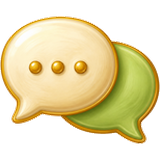
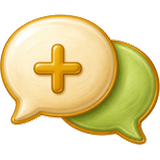
Icona converses del Capità: + en lloc dels tres punts
Claude-Session: https://claude.ai/code/session_01U8Mmhj3w1kDHbZEJg4YuWh

diff --git a/nova/index.html b/nova/index.html
@@ -462,7 +462,7 @@ html,body{-webkit-touch-callout:none;-webkit-user-select:none;user-select:none;-
 
 <script>/* xarxa de seguretat: si l'app no arrenca, botó per actualitzar */setTimeout(function(){var a=document.getElementById("app");if(a&&!a.innerHTML.trim()){a.innerHTML='<div style="padding:40px 20px;text-align:center;font:600 17px system-ui"><p>No s\'ha pogut obrir l\'app.</p><button id="sosup" style="font:700 17px system-ui;padding:12px 22px;border-radius:999px;border:0;background:#17599a;color:#fff">Actualitza</button></div>';document.getElementById("sosup").onclick=function(){(window.caches?caches.keys().then(function(k){return Promise.all(k.map(function(x){return caches.delete(x)}))}):Promise.resolve()).then(function(){location.reload()})};}},2500);</script>
 <script>
-const APPV="1793432788";let UPD=0,UPS=0;
+const APPV="1793433086";let UPD=0,UPS=0;
 
 const IC={"docs": "<svg viewBox=\"0 0 40 40\" width=\"22\" height=\"22\" aria-hidden=\"true\"><path d=\"M9 4h15l8 8v23a2 2 0 0 1-2 2H9a2 2 0 0 1-2-2V6a2 2 0 0 1 2-2z\" fill=\"#fff\" stroke=\"#5b6b7a\" stroke-width=\"1.5\"/><path d=\"M24 4v8h8\" fill=\"#e3e8ee\" stroke=\"#5b6b7a\" stroke-width=\"1.5\" stroke-linejoin=\"round\"/><circle cx=\"27\" cy=\"29\" r=\"8.5\" fill=\"#3f8a3a\" stroke=\"#fff\" stroke-width=\"1.6\"/><path d=\"M27 33.5v-9M23 28l4-4 4 4\" fill=\"none\" stroke=\"#fff\" stroke-width=\"2.2\" stroke-linecap=\"round\" stroke-linejoin=\"round\"/><path d=\"M12 17h10M12 21h7\" stroke=\"#9aa6b2\" stroke-width=\"1.6\" stroke-linecap=\"round\"/></svg>", "receptari": "<svg viewBox=\"0 0 40 40\" width=\"22\" height=\"22\" aria-hidden=\"true\"><path d=\"M6 7c5-2 10-2 14 1v27c-4-3-9-3-14-1z\" fill=\"#fff6e3\" stroke=\"#8a5a2b\" stroke-width=\"1.4\" stroke-linejoin=\"round\"/><path d=\"M34 7c-5-2-10-2-14 1v27c4-3 9-3 14-1z\" fill=\"#fff6e3\" stroke=\"#8a5a2b\" stroke-width=\"1.4\" stroke-linejoin=\"round\"/><path d=\"M4 9v26c6-2 11-2 16 1 5-3 10-3 16-1V9\" fill=\"none\" stroke=\"#c8352b\" stroke-width=\"2.4\" stroke-linejoin=\"round\"/><path d=\"M10 14h6M10 18h6M24 14h6M24 18h5\" stroke=\"#c9a46a\" stroke-width=\"1.5\" stroke-linecap=\"round\"/><path d=\"M27 24c0-2 3-2 3 0 0 2-3 3.5-3 3.5s-3-1.5-3-3.5c0-2 3-2 3 0z\" fill=\"#e0533f\"/></svg>", "menu": "<svg viewBox=\"0 0 40 40\" width=\"22\" height=\"22\" aria-hidden=\"true\"><rect x=\"5\" y=\"7\" width=\"30\" height=\"28\" rx=\"3\" fill=\"#fff\" stroke=\"#2f74b5\" stroke-width=\"1.5\"/><path d=\"M5 10a3 3 0 0 1 3-3h24a3 3 0 0 1 3 3v4H5z\" fill=\"#2f74b5\"/><path d=\"M12 4v6M28 4v6\" stroke=\"#1f4f80\" stroke-width=\"2.2\" stroke-linecap=\"round\"/><circle cx=\"20\" cy=\"25\" r=\"6.5\" fill=\"#f3e3c4\" stroke=\"#c9a46a\" stroke-width=\"1.3\"/><circle cx=\"20\" cy=\"25\" r=\"3.8\" fill=\"#fff\" stroke=\"#e2cfa6\" stroke-width=\"1\"/><path d=\"M10.5 20v10M9 20v3.5a1.5 1.5 0 0 0 3 0V20M29.5 20c1.6 0 1.8 3 1.8 4.6 0 1-.8 1.4-1.8 1.4V30\" fill=\"none\" stroke=\"#8a93a0\" stroke-width=\"1.2\" stroke-linecap=\"round\"/></svg>", "treball": "<svg viewBox=\"0 0 40 40\" width=\"22\" height=\"22\" aria-hidden=\"true\"><rect x=\"8\" y=\"6\" width=\"24\" height=\"30\" rx=\"3\" fill=\"#c98a4b\" stroke=\"#7a4a1e\" stroke-width=\"1.4\"/><rect x=\"11\" y=\"10\" width=\"18\" height=\"23\" rx=\"1.5\" fill=\"#fff\"/><rect x=\"15\" y=\"3.5\" width=\"10\" height=\"5\" rx=\"1.5\" fill=\"#9aa0a6\" stroke=\"#6b7177\" stroke-width=\"1\"/><path d=\"M14 16l2 2 3.5-3.5M14 23l2 2 3.5-3.5\" fill=\"none\" stroke=\"#3f8a3a\" stroke-width=\"1.9\" stroke-linecap=\"round\" stroke-linejoin=\"round\"/><path d=\"M22 17h5M22 24h5M14 29.5h13\" stroke=\"#b9bfc6\" stroke-width=\"1.6\" stroke-linecap=\"round\"/></svg>", "despesa": "<svg viewBox=\"0 0 40 40\" width=\"22\" height=\"22\" aria-hidden=\"true\"><path d=\"M8 4h20v31l-2.5-2-2.5 2-2.5-2-2.5 2-2.5-2-2.5 2-2.5-2L8 35z\" fill=\"#fff\" stroke=\"#7a838b\" stroke-width=\"1.4\" stroke-linejoin=\"round\"/><path d=\"M12 10h12M12 14h9M12 18h12\" stroke=\"#b9bfc6\" stroke-width=\"1.6\" stroke-linecap=\"round\"/><circle cx=\"27\" cy=\"27\" r=\"8\" fill=\"#f2c14a\" stroke=\"#c48a1a\" stroke-width=\"1.5\"/><path d=\"M29.6 23.6a4 4 0 1 0 0 6.8M22.8 25.8h5.4M22.8 28.2h5.4\" fill=\"none\" stroke=\"#8a5a10\" stroke-width=\"1.6\" stroke-linecap=\"round\"/></svg>", "hudsilo": "<svg aria-hidden=\"true\" width=\"30\" height=\"30\" viewBox=\"0 0 64 64\"><defs><linearGradient id=\"hsr\" x1=\"0\" x2=\"1\"><stop offset=\"0\" stop-color=\"#8f1a12\"/><stop offset=\".28\" stop-color=\"#d8392a\"/><stop offset=\".55\" stop-color=\"#e9503d\"/><stop offset=\"1\" stop-color=\"#9e2016\"/></linearGradient><linearGradient id=\"hsroof\" x1=\"0\" x2=\"1\"><stop offset=\"0\" stop-color=\"#3f3029\"/><stop offset=\".45\" stop-color=\"#7b6556\"/><stop offset=\"1\" stop-color=\"#4a3a31\"/></linearGradient><linearGradient id=\"hsgr\" x1=\"0\" y1=\"0\" x2=\"0\" y2=\"1\"><stop offset=\"0\" stop-color=\"#f7d36a\"/><stop offset=\".25\" stop-color=\"#e3a43a\"/><stop offset=\"1\" stop-color=\"#b8711e\"/></linearGradient><linearGradient id=\"hsmet\" x1=\"0\" x2=\"1\"><stop offset=\"0\" stop-color=\"#5d666e\"/><stop offset=\".5\" stop-color=\"#b9c2ca\"/><stop offset=\"1\" stop-color=\"#626b73\"/></linearGradient><linearGradient id=\"hsst\" x1=\"0\" y1=\"0\" x2=\"0\" y2=\"1\"><stop offset=\"0\" stop-color=\"#e4d8c6\"/><stop offset=\"1\" stop-color=\"#a99880\"/></linearGradient></defs><ellipse cx=\"32\" cy=\"58.5\" rx=\"17\" ry=\"4.2\" fill=\"url(#hsst)\" stroke=\"#7d6c56\" stroke-width=\"1.2\"/><path d=\"M17 17h30l-2.6 40.6c-6.2 2.2-18.6 2.2-24.8 0z\" fill=\"url(#hsr)\" stroke=\"#5f130c\" stroke-width=\"1.5\" stroke-linejoin=\"round\"/><path d=\"M22.4 18.5l1 40M27.6 18.6l.4 40.6M32.8 18.6v40.8M38 18.6l-.4 40.6M43.2 18.5l-1 40\" stroke=\"#7d160e\" stroke-width=\"1\" opacity=\".75\"/><path d=\"M20.2 18.8l1.6 38.4\" stroke=\"#f47b66\" stroke-width=\"1.6\" opacity=\".7\"/><path d=\"M17.3 27.5c8.6 2.8 20.8 2.8 29.4 0M18.3 44c8 2.6 19.4 2.6 27.4 0\" fill=\"none\" stroke=\"#5f130c\" stroke-width=\"3.4\" opacity=\".35\"/><path d=\"M17.3 27c8.6 2.8 20.8 2.8 29.4 0M18.3 43.5c8 2.6 19.4 2.6 27.4 0\" fill=\"none\" stroke=\"#fbf6ee\" stroke-width=\"2.4\"/><path d=\"M28.4 21.5h7.2l-1.2 33h-4.8z\" fill=\"#fbf6ee\" stroke=\"#6b1a10\" stroke-width=\"1\"/><path d=\"M29.9 23.2h4.2l-1 29.6h-2.2z\" fill=\"#5d120b\"/><path d=\"M30.4 36.5h3.4l-.7 16.3h-2.2z\" fill=\"url(#hsgr)\"/><path d=\"M30.2 37c.3-4.4 3.5-4.4 3.8 0z\" fill=\"#f7d36a\" stroke=\"#c48a26\" stroke-width=\".5\"/><circle cx=\"31.4\" cy=\"34.8\" r=\".5\" fill=\"#fff3c4\"/><circle cx=\"32.8\" cy=\"35.6\" r=\".4\" fill=\"#fff3c4\"/><path d=\"M19.5 41l-2.6.6.4 14.8M44.5 41l2.6.6-.4 14.8\" fill=\"none\" stroke=\"url(#hsmet)\" stroke-width=\"2.4\" stroke-linecap=\"round\" stroke-linejoin=\"round\"/><rect x=\"15.6\" y=\"55.3\" width=\"3.4\" height=\"2\" rx=\".6\" fill=\"#7d868f\" stroke=\"#3f464c\" stroke-width=\".6\"/><rect x=\"45\" y=\"55.3\" width=\"3.4\" height=\"2\" rx=\".6\" fill=\"#7d868f\" stroke=\"#3f464c\" stroke-width=\".6\"/><path d=\"M46 21.4h4.4v3.4\" fill=\"none\" stroke=\"url(#hsmet)\" stroke-width=\"2.2\" stroke-linecap=\"round\"/><path d=\"M50.4 24.8c1.4 4 .6 8 -1 10\" fill=\"none\" stroke=\"#a87c4f\" stroke-width=\".9\"/><path d=\"M32 3.5 14.2 17.4c5 2.4 30.6 2.4 35.6 0z\" fill=\"url(#hsroof)\" stroke=\"#2a201b\" stroke-width=\"1.5\" stroke-linejoin=\"round\"/><path d=\"M32 4.4l-7.6 13.8M32 4.4l7.2 13.8\" stroke=\"#8d7766\" stroke-width=\".8\" opacity=\".6\"/><path d=\"M21.6 11l6.2-2.2 2.4 4.2-6.4 2.2z\" fill=\"#d3d9de\" stroke=\"#5f676e\" stroke-width=\"1\"/><path d=\"M24.4 11.6l2.4-.8\" stroke=\"#5f676e\" stroke-width=\"1\" stroke-linecap=\"round\"/></svg>", "shopico": "<svg aria-hidden=\"true\" width=\"34\" height=\"34\" viewBox=\"0 0 64 64\"><defs><linearGradient id=\"bw\" x1=\"0\" x2=\"0\" y1=\"0\" y2=\"1\"><stop offset=\"0\" stop-color=\"#9c5f30\"/><stop offset=\"1\" stop-color=\"#6a3b19\"/></linearGradient><linearGradient id=\"bp\" x1=\"0\" x2=\"1\"><stop offset=\"0\" stop-color=\"#6f4120\"/><stop offset=\".5\" stop-color=\"#a86a35\"/><stop offset=\"1\" stop-color=\"#6f4120\"/></linearGradient><linearGradient id=\"bc\" x1=\"0\" x2=\"0\" y1=\"0\" y2=\"1\"><stop offset=\"0\" stop-color=\"#e4b47a\"/><stop offset=\"1\" stop-color=\"#b9824a\"/></linearGradient><linearGradient id=\"bcin\" x1=\"0\" x2=\"0\" y1=\"0\" y2=\"1\"><stop offset=\"0\" stop-color=\"#7a4a24\"/><stop offset=\"1\" stop-color=\"#a86e3c\"/></linearGradient><linearGradient id=\"awr\" x1=\"0\" x2=\"0\" y1=\"0\" y2=\"1\"><stop offset=\"0\" stop-color=\"#f05a48\"/><stop offset=\"1\" stop-color=\"#c62a20\"/></linearGradient><linearGradient id=\"aww\" x1=\"0\" x2=\"0\" y1=\"0\" y2=\"1\"><stop offset=\"0\" stop-color=\"#ffffff\"/><stop offset=\"1\" stop-color=\"#e9ddd0\"/></linearGradient><radialGradient id=\"ar\" cx=\".35\" cy=\".35\" r=\".7\"><stop offset=\"0\" stop-color=\"#ff8a7a\"/><stop offset=\".5\" stop-color=\"#e3261c\"/><stop offset=\"1\" stop-color=\"#9c120c\"/></radialGradient><radialGradient id=\"ag\" cx=\".35\" cy=\".35\" r=\".7\"><stop offset=\"0\" stop-color=\"#d9ff9a\"/><stop offset=\".5\" stop-color=\"#6cc43a\"/><stop offset=\"1\" stop-color=\"#2f7a1a\"/></radialGradient><linearGradient id=\"bk\" x1=\"0\" x2=\"1\"><stop offset=\"0\" stop-color=\"#7a4a24\"/><stop offset=\".5\" stop-color=\"#c0814a\"/><stop offset=\"1\" stop-color=\"#7a4a24\"/></linearGradient></defs><path d=\"M4 50l10-5h40l4 6-10 7H8z\" fill=\"url(#bw)\" stroke=\"#3f230e\" stroke-width=\"1.3\" stroke-linejoin=\"round\"/><path d=\"M12 47l-3 9M20 46l-3 11M28 46l-2 12M36 46l-1 12M44 46l1 12M52 47l2 9\" stroke=\"#4a2a12\" stroke-width=\".9\" opacity=\".7\"/><rect x=\"49\" y=\"12\" width=\"3.6\" height=\"40\" rx=\"1\" fill=\"url(#bp)\" stroke=\"#3f230e\" stroke-width=\"1.1\"/><rect x=\"13.2\" y=\"18\" width=\"3.4\" height=\"28\" rx=\"1\" fill=\"url(#bp)\" stroke=\"#3f230e\" stroke-width=\"1.1\"/><path d=\"M16 40h32v9H17z\" fill=\"#a8622e\" stroke=\"#4a2a12\" stroke-width=\"1.1\"/><path d=\"M17 44.5h31\" stroke=\"#7a431c\" stroke-width=\".9\"/><path d=\"M13 37.5l34-5 4 7.6-35 5.4z\" fill=\"#f1dfbd\" stroke=\"#6b3f17\" stroke-width=\"1.1\" stroke-linejoin=\"round\"/><path d=\"M15 36.5l31.6-4.8 3 6-32 4.9z\" fill=\"url(#bc)\" stroke=\"#5e3614\" stroke-width=\"1.1\" stroke-linejoin=\"round\"/><path d=\"M18.4 37.6l9-1.4 1 2.6-9 1.4zM29.4 35.9l9-1.4 1 2.6-9 1.4zM40.2 34.3l6-.9 1.1 2.6-6.1.9zM19.6 39.9l9-1.4.9 1.4-9 1.4zM30.6 38.2l9-1.4.9 1.4-9 1.4z\" fill=\"url(#bcin)\"/><path d=\"M27.4 36.2l2.1 4.3M38.4 34.5l2 4.3\" stroke=\"#5e3614\" stroke-width=\"1.2\"/><path d=\"M8.5 15.5C14 9 38 5.5 54 9.5l1.6 5\" fill=\"none\" stroke=\"#7a1e14\" stroke-width=\"1.4\"/><path d=\"M8.5 15.5 10 24.5c2.4 2 5.2 1.6 6.4-.6 2.2 2.1 5 1.8 6.3-.5 2.2 2 5 1.7 6.2-.6 2.2 2 5 1.6 6.2-.6 2.2 1.9 5 1.6 6.1-.7 2.2 1.9 4.9 1.5 6-.8 2.1 1.7 4.7 1.3 5.6-1L54 9.5C38 5.5 14 9 8.5 15.5z\" fill=\"url(#aww)\" stroke=\"#7a1e14\" stroke-width=\"1.4\" stroke-linejoin=\"round\"/><path d=\"M10 24.5c2.4 2 5.2 1.6 6.4-.6l-1.4-11.6-6.5 3.2zM22.7 23.4c2.2 2 5 1.7 6.2-.6l-1.2-13-6.7 1.4zM35.1 22.2c2.2 1.9 5 1.6 6.1-.7l-.6-13.1-6.6.4zM47.2 20.7c2.1 1.7 4.7 1.3 5.6-1L54 9.5l-6.4-1.1z\" fill=\"url(#awr)\"/><path d=\"M10.5 16.4c8-4.2 28-6 42.4-3.4\" fill=\"none\" stroke=\"#fff\" stroke-width=\"1\" opacity=\".55\"/><circle cx=\"31\" cy=\"7.3\" r=\"1.3\" fill=\"#a9b2ba\" stroke=\"#5f676e\" stroke-width=\".6\"/><circle cx=\"53.6\" cy=\"9.6\" r=\"1.3\" fill=\"#a9b2ba\" stroke=\"#5f676e\" stroke-width=\".6\"/><path d=\"M2.5 48.5h12l-1.4 9.5H4z\" fill=\"url(#bk)\" stroke=\"#4a2a12\" stroke-width=\"1.1\"/><path d=\"M3.2 52.3h10.6\" stroke=\"#9aa3ab\" stroke-width=\"1.6\"/><circle cx=\"5.6\" cy=\"47.2\" r=\"2.6\" fill=\"url(#ag)\"/><circle cx=\"9.4\" cy=\"46.4\" r=\"2.7\" fill=\"url(#ag)\"/><circle cx=\"12.3\" cy=\"47.6\" r=\"2.3\" fill=\"url(#ag)\"/><path d=\"M47 51.5h12l-1.4 9.5h-9.2z\" fill=\"url(#bk)\" stroke=\"#4a2a12\" stroke-width=\"1.1\"/><path d=\"M47.7 55.3h10.6\" stroke=\"#9aa3ab\" stroke-width=\"1.6\"/><circle cx=\"50.2\" cy=\"50.2\" r=\"2.6\" fill=\"url(#ar)\"/><circle cx=\"54\" cy=\"49.4\" r=\"2.7\" fill=\"url(#ar)\"/><circle cx=\"56.8\" cy=\"50.6\" r=\"2.3\" fill=\"url(#ar)\"/><path d=\"M54 46.8l.4-1.4\" stroke=\"#4a2a12\" stroke-width=\".8\"/></svg>", "veiico": "<svg aria-hidden=\"true\" width=\"32\" height=\"32\" viewBox=\"0 0 64 64\"><path d=\"M2 47c10-5 21-6 30-4s20 3 30-2v19H2z\" fill=\"#7fb944\"/><g stroke=\"#6b4423\" stroke-width=\"1.8\" stroke-linejoin=\"round\"><rect x=\"5\" y=\"32\" width=\"15\" height=\"14\" rx=\"1\" fill=\"#fbf1dc\"/><path d=\"M3 33.5 12.5 22 22 33.5z\" fill=\"#d1453b\"/><rect x=\"44\" y=\"32\" width=\"15\" height=\"14\" rx=\"1\" fill=\"#fbf1dc\"/><path d=\"M42 33.5 51.5 22 61 33.5z\" fill=\"#eaa63a\"/><rect x=\"38\" y=\"15\" width=\"4.5\" height=\"9\" fill=\"#a8562c\"/><rect x=\"19\" y=\"28\" width=\"26\" height=\"21\" rx=\"1.2\" fill=\"#fffaf0\"/><path d=\"M16 30 32 14l16 16z\" fill=\"#6e8c3c\"/><rect x=\"28.5\" y=\"38\" width=\"7\" height=\"11\" rx=\"1\" fill=\"#9a5a2b\"/></g><rect x=\"22.5\" y=\"32\" width=\"4.5\" height=\"4\" fill=\"#8cc7ec\"/><rect x=\"37\" y=\"32\" width=\"4.5\" height=\"4\" fill=\"#8cc7ec\"/></svg>", "crea": "<svg viewBox=\"0 0 40 40\" width=\"22\" height=\"22\" aria-hidden=\"true\"><path d=\"M8 4h15l7 7v24a2 2 0 0 1-2 2H8a2 2 0 0 1-2-2V6a2 2 0 0 1 2-2z\" fill=\"#fff\" stroke=\"#5b6b7a\" stroke-width=\"1.5\"/><path d=\"M23 4v7h7\" fill=\"#e3e8ee\" stroke=\"#5b6b7a\" stroke-width=\"1.5\" stroke-linejoin=\"round\"/><path d=\"M11 15h11M11 19h12M11 23h7\" stroke=\"#9aa6b2\" stroke-width=\"1.6\" stroke-linecap=\"round\"/><path d=\"M20 30 31 19l4 4-11 11z\" fill=\"#eaa63a\" stroke=\"#8a5a2b\" stroke-width=\"1.3\" stroke-linejoin=\"round\"/><path d=\"M31 19l1.6-1.6a1.4 1.4 0 0 1 2 0l2 2a1.4 1.4 0 0 1 0 2L35 23z\" fill=\"#e0533f\" stroke=\"#8a5a2b\" stroke-width=\"1.3\" stroke-linejoin=\"round\"/><path d=\"M20 30l4 4-6 2z\" fill=\"#f3e3c4\" stroke=\"#8a5a2b\" stroke-width=\"1.3\" stroke-linejoin=\"round\"/><path d=\"M18.6 34.4 18 36l1.6-.6z\" fill=\"#3d3d3d\"/></svg>", "qc": "<svg viewBox=\"0 0 40 40\" width=\"22\" height=\"22\" aria-hidden=\"true\"><path d=\"M15.5 19 20.3 7.2l3.3 1.3-3.4 10.8z\" fill=\"#eaa63a\" stroke=\"#a8562c\" stroke-width=\"1.3\" stroke-linejoin=\"round\"/><path d=\"M18 13.5l2 .8M17 16l1.8.7\" stroke=\"#a8562c\" stroke-width=\"1\" stroke-linecap=\"round\"/><path d=\"M21.5 7.6c-.9-2.6.2-4.3 1.6-4.9.6 1.8.4 3.6-.9 5.2zM22.3 8c1.6-2 3.6-2.2 5-1.4-1.3 1.3-3 1.9-5 1.4z\" fill=\"#7fb944\" stroke=\"#4f7a2a\" stroke-width=\"1\" stroke-linejoin=\"round\"/><path d=\"M25.5 19c-.3-4.2 1.9-7.2 5.6-8.4-.1 3.8-2 6.8-5.6 8.4z\" fill=\"#7fb944\" stroke=\"#4f7a2a\" stroke-width=\"1.2\" stroke-linejoin=\"round\"/><path d=\"M7 20h26v8a7 7 0 0 1-7 7H14a7 7 0 0 1-7-7z\" fill=\"#d8392a\" stroke=\"#8f1a12\" stroke-width=\"1.5\" stroke-linejoin=\"round\"/><path d=\"M4.5 19.5h31\" stroke=\"#8f1a12\" stroke-width=\"2.6\" stroke-linecap=\"round\"/><path d=\"M7 23.5H3.5M33 23.5h3.5\" stroke=\"#8f1a12\" stroke-width=\"2.4\" stroke-linecap=\"round\"/><path d=\"M11 24v4.5\" stroke=\"#f08a7a\" stroke-width=\"1.8\" stroke-linecap=\"round\"/></svg>", "casa": "<svg viewBox=\"0 0 40 40\" width=\"22\" height=\"22\" aria-hidden=\"true\"><ellipse cx=\"20\" cy=\"37.2\" rx=\"14\" ry=\"1.6\" fill=\"#000\" opacity=\".13\"/><path d=\"M7 19 20 7l13 12v17H7z\" fill=\"#f3e3c4\" stroke=\"#7a4a1e\" stroke-width=\"1.3\" stroke-linejoin=\"round\"/><path d=\"M4 20.5 20 5.5l16 15\" fill=\"none\" stroke=\"#c8352b\" stroke-width=\"3.4\" stroke-linecap=\"round\" stroke-linejoin=\"round\"/><rect x=\"26\" y=\"8\" width=\"4\" height=\"7\" fill=\"#9b5a2b\"/><rect x=\"16.5\" y=\"25\" width=\"7\" height=\"11\" rx=\"1\" fill=\"#9b5a2b\"/><path d=\"M14 21.5a3 3 0 0 1 6 0c0 2.6-3 4.4-3 4.4s-3-1.8-3-4.4zM20 21.5a3 3 0 0 1 6 0c0 2.6-3 4.4-3 4.4\" fill=\"none\"/><path d=\"M17.2 18.6c-1.6-1.6-4.2-.2-3.6 2 .5 1.8 3.6 3.6 3.6 3.6s3.1-1.8 3.6-3.6c.6-2.2-2-3.6-3.6-2z\" fill=\"#e0533f\" transform=\"translate(2.8 -1.2)\"/></svg>", "graner": "<svg viewBox=\"0 0 40 40\" width=\"22\" height=\"22\" aria-hidden=\"true\"><ellipse cx=\"20\" cy=\"37.2\" rx=\"15\" ry=\"1.6\" fill=\"#000\" opacity=\".13\"/><path d=\"M6 17.5 9.5 9.5 20 4.5 30.5 9.5 34 17.5V36H6z\" fill=\"#c8352b\" stroke=\"#7d1d17\" stroke-width=\"1.1\" stroke-linejoin=\"round\"/><path d=\"M3.5 18.5 8.4 8.2 20 2.8 31.6 8.2 36.5 18.5\" fill=\"none\" stroke=\"#2f3236\" stroke-width=\"3.2\" stroke-linecap=\"round\" stroke-linejoin=\"round\"/><path d=\"M9 21h22\" stroke=\"#fff\" stroke-width=\"1.6\"/><path d=\"M10 12.4 9.6 13\" stroke=\"#a52a22\" stroke-width=\".8\"/><path d=\"M12 24v12M28 24v12\" stroke=\"#a52a22\" stroke-width=\".8\" opacity=\".7\"/><rect x=\"16.5\" y=\"9.8\" width=\"7\" height=\"6.4\" fill=\"#fff\" stroke=\"#7d1d17\" stroke-width=\".6\"/><path d=\"M16.5 9.8 23.5 16.2M23.5 9.8 16.5 16.2\" stroke=\"#c8352b\" stroke-width=\"1.1\"/><rect x=\"13.5\" y=\"23.5\" width=\"13\" height=\"12.5\" fill=\"#fff\"/><rect x=\"15\" y=\"25\" width=\"10\" height=\"11\" fill=\"#8e2219\"/><path d=\"M15 25 25 36M25 25 15 36\" stroke=\"#fff\" stroke-width=\"1.3\"/><path d=\"M20 25v11\" stroke=\"#fff\" stroke-width=\"1\"/><rect x=\"5.5\" y=\"35.5\" width=\"29\" height=\"1.6\" rx=\".8\" fill=\"#9aa0a6\"/></svg>", "cart": "<svg viewBox=\"0 0 40 40\" width=\"28\" height=\"28\" aria-hidden=\"true\"><path d=\"M3 7h5l4 20h20\" fill=\"none\" stroke=\"#1f4f80\" stroke-width=\"2.4\" stroke-linecap=\"round\" stroke-linejoin=\"round\"/><path d=\"M9.5 12h26l-3 12H12z\" fill=\"#fff\" stroke=\"#2f74b5\" stroke-width=\"1.6\" stroke-linejoin=\"round\"/><path d=\"M15 12.5 18 5.5l3 1.2-2.4 5.8z\" fill=\"#eaa63a\" stroke=\"#a8562c\" stroke-width=\"1.1\" stroke-linejoin=\"round\"/><path d=\"M22 12c.2-3.6 2.2-6 5.4-6.8-.3 3.2-2 5.6-5.4 6.8z\" fill=\"#7fb944\" stroke=\"#4f7a2a\" stroke-width=\"1.1\" stroke-linejoin=\"round\"/><circle cx=\"27\" cy=\"9.5\" r=\"2.6\" fill=\"#d8392a\" stroke=\"#8f1a12\" stroke-width=\"1\"/><path d=\"M15 17h15M14 21h15\" stroke=\"#9aa6b2\" stroke-width=\"1.4\" stroke-linecap=\"round\"/><circle cx=\"14\" cy=\"32\" r=\"2.6\" fill=\"#3d3d3d\"/><circle cx=\"29\" cy=\"32\" r=\"2.6\" fill=\"#3d3d3d\"/></svg>"};
 const PI=n=>`<img class="pi" src="img/${n}.png" alt="" aria-hidden="true">`;Object.assign(IC,{menu:PI("nav_menu"),cart:PI("icona_compra"),receptari:PI("nav_receptari"),despesa:PI("nav_despesa"),crea:PI("nav_crea"),qc:PI("nav_que_cuino"),hudsilo:PI("hud_sitja"),shopico:PI("hud_botiga_37"),veiico:PI("hud_veinat")});
